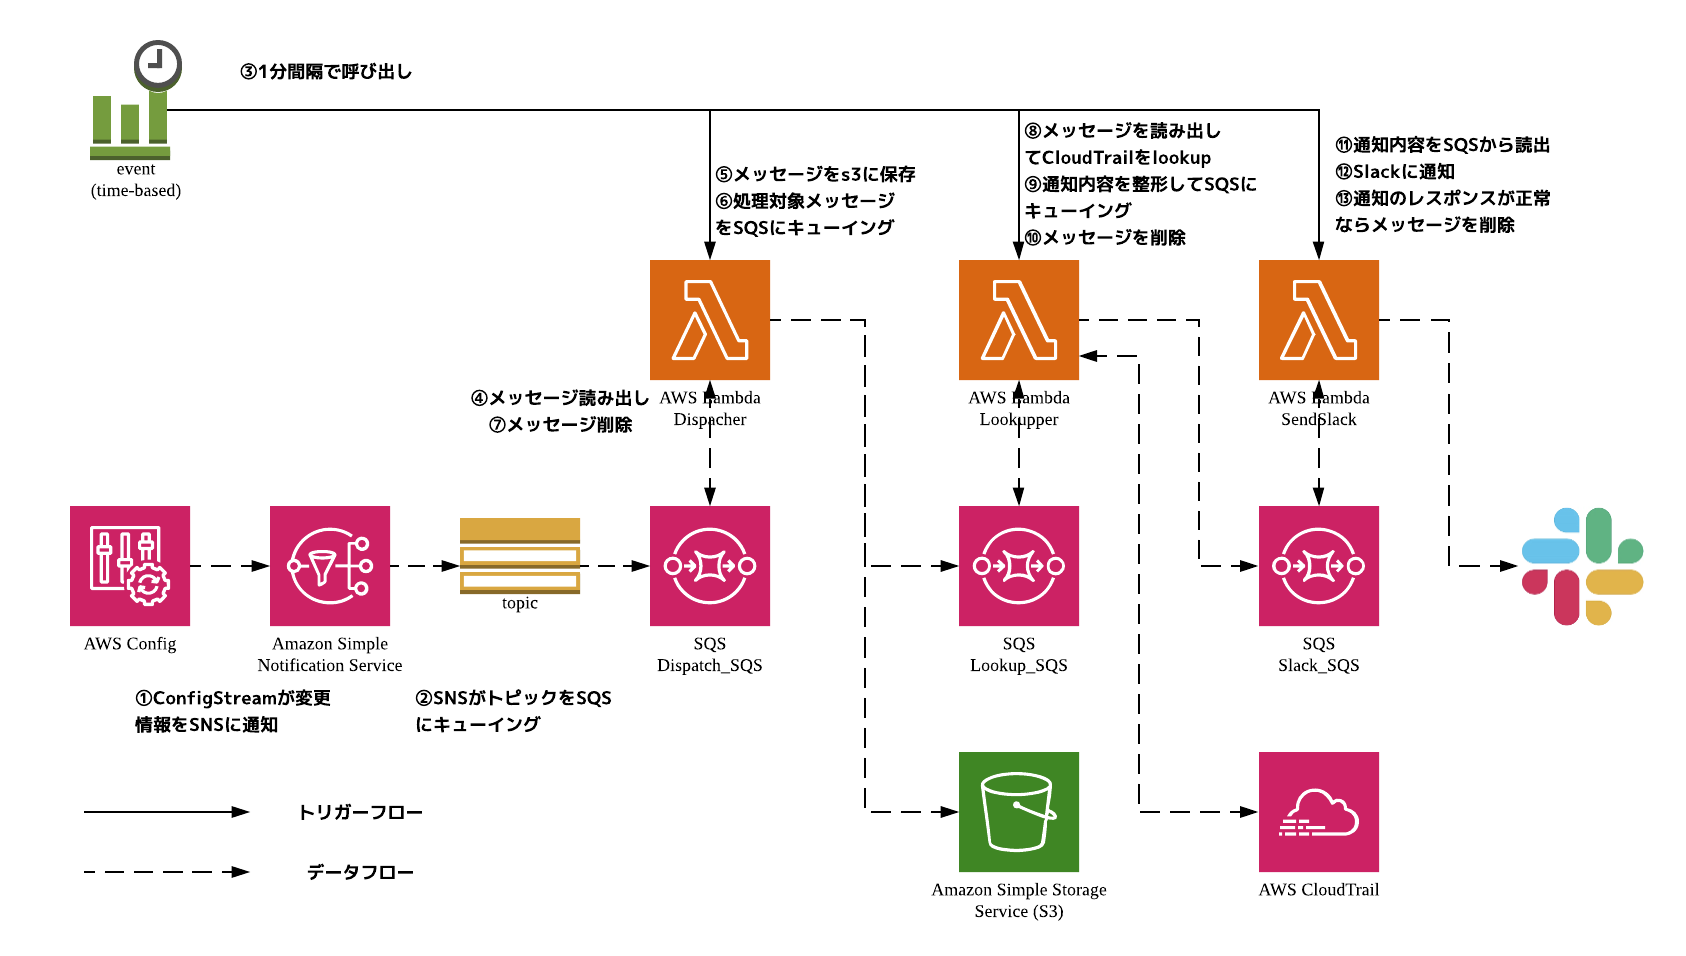
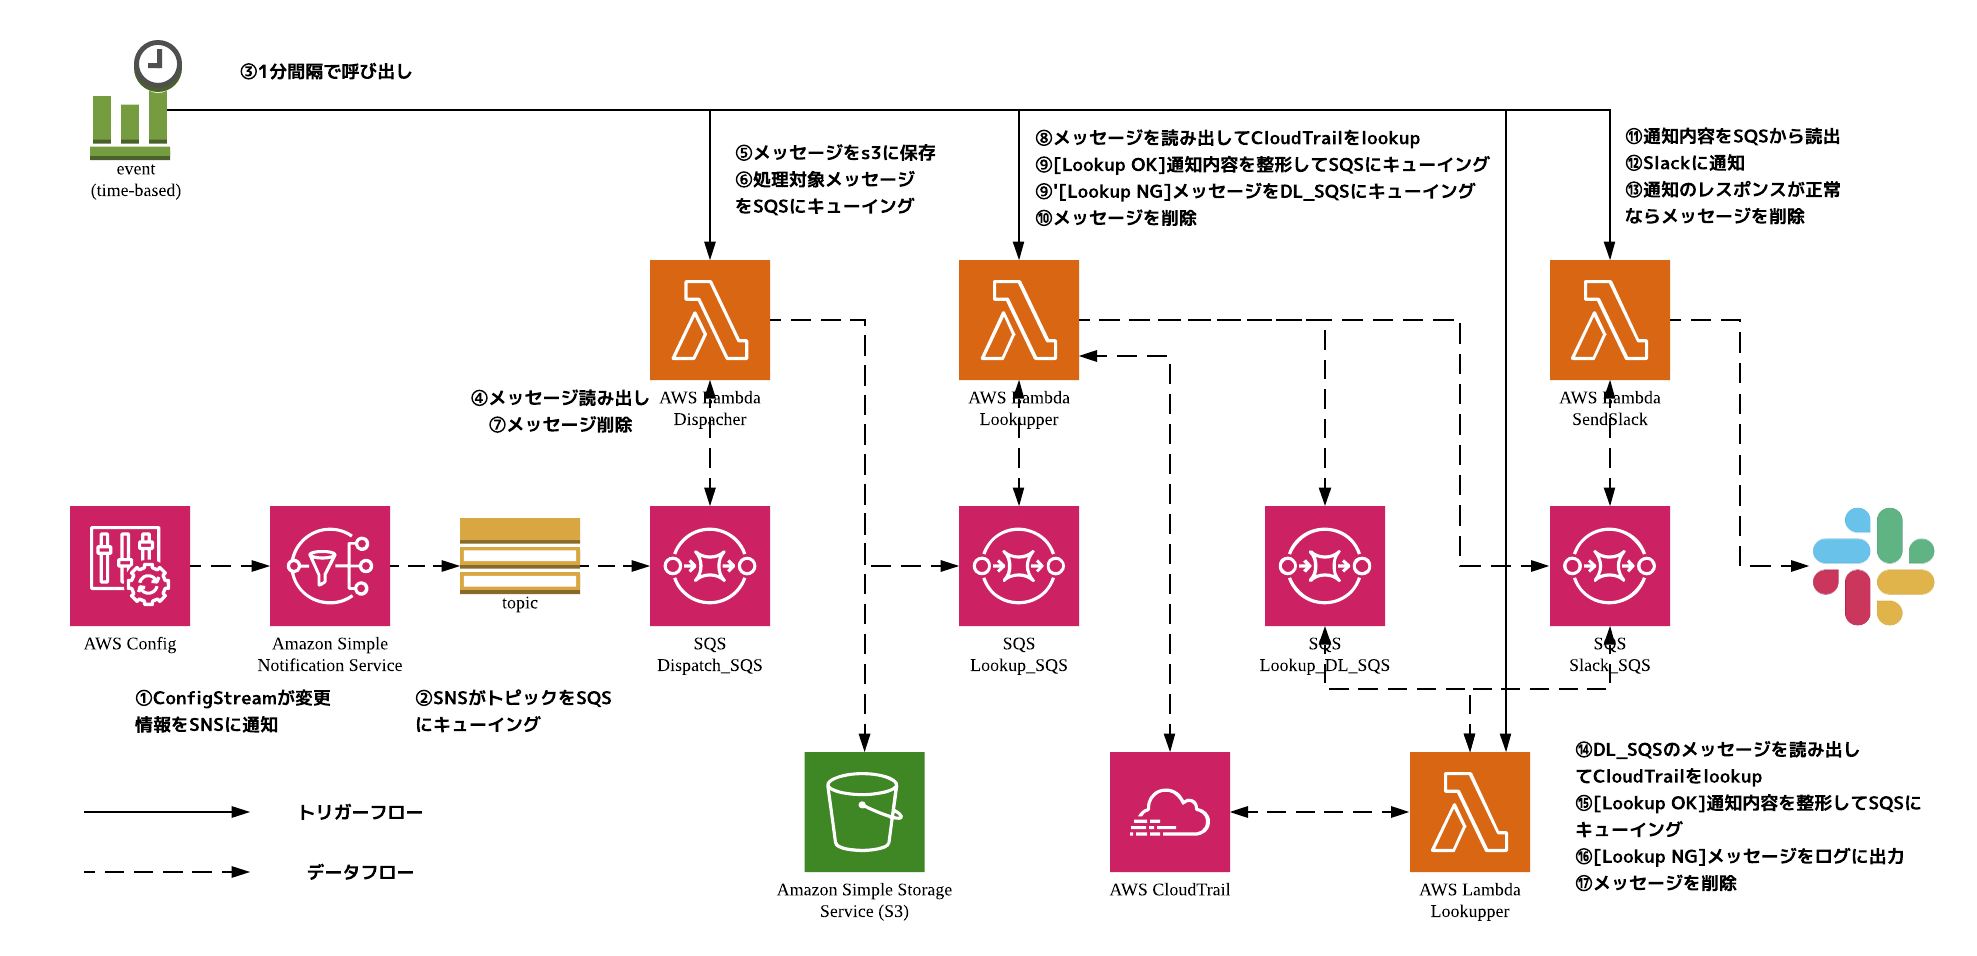
fix issue #1

diff --git a/README.md b/README.md
@@ -40,16 +40,23 @@ EventID
 ![configuration-diagram.png](/docs/pixs/configuration-diagram.png)
 ## 処理の概要
 1. Config Streamが変更情報をSNSに通知
-1. SNSがトピックをSQS(Dispache_SQS)にキューイング
-1. Cloudwatch Events(Time-Based)が一分間隔でLambda(Dispacher, Lookupper, SendSlack)を呼び出し
-1. Lambda(Dispacher)が、SQS(Dispache_SQS)からメッセージを読み出し
-1. Lambda(Dispacher)が、読みだしたメッセージをs3に保存
-1. Lambda(Dispacher)が、処理対象の情報が含まれているメッセージを、SQS(Lookup_SQS)にキューイング
-1. Lambda(Dispacher)が、読み込んだメッセージを削除
-1. Lambda(Lookupper)が、SQS(Lookup_SQS)からメッセージを読み出して、タイムスタンプとリソースタイプをキーにCloudTrailをLookupする。Lookupの結果が空の場合、SQS(Lookup_SQS)にメッセージを書き戻す
-1. Lambda(Lookupper)が、処理対象の情報を選別し、通知に用いる情報を抽出/整形して、SQS(SendSlack_SQS)にキューイング
-1. Lambda(Lookupper)が、読み込んだメッセージを削除
-1. Lambda(SendSlack)が、SQS(SendSlack_SQS)からメッセージを読み出し
-1. Lambda(SendSlack)が、SlackのIncomming Webhookに投稿
-1. Slackのレスポンスが正常なら、Lambda(SendSlack)が、読み込んだメッセージを削除
+2. SNSがトピックをSQS(Dispache_SQS)にキューイング
+3. Cloudwatch Events(Time-Based)が一分間隔でLambda(Dispacher, Lookupper, SendSlack)を呼び出し
+4. Lambda(Dispacher)が、SQS(Dispache_SQS)からメッセージを読み出し
+5. Lambda(Dispacher)が、読みだしたメッセージをs3に保存
+6. Lambda(Dispacher)が、処理対象の情報が含まれているメッセージを、SQS(Lookup_SQS)にキューイング
+7. Lambda(Dispacher)が、読み込んだメッセージを削除
+8. Lambda(Lookupper)が、SQS(Lookup_SQS)からメッセージを読み出して、タイムスタンプとリソースタイプをキーにCloudTrailをLookupする
+9. Lookupの結果が取得できた場合、Lambda(Lookupper)が、処理対象の情報を選別し、通知に用いる情報を抽出/整形して、SQS(SendSlack_SQS)にキューイング
+9'. Lookupの結果が空の場合、Lambda(Lookupper)が、SQS(Lookup_SQS_DL)にメッセージをキューイング
+10. Lambda(Lookupper)が、読み込んだメッセージを削除
+11. Lambda(SendSlack)が、SQS(SendSlack_SQS)からメッセージを読み出し
+12. Lambda(SendSlack)が、SlackのIncomming Webhookに投稿
+13. Slackのレスポンスが正常なら、Lambda(SendSlack)が、読み込んだメッセージを削除
+
+### Lookup_SQS_DLの処理
+14. Lambda(Lookupper)が、SQS(Lookup_SQS_DL)からメッセージを読み出して、タイムスタンプとリソースタイプをキーにCloudTrailをLookupする。
+15. Lookupの結果が取得できた場合、Lambda(Lookupper)が、処理対象の情報を選別し、通知に用いる情報を抽出/整形して、SQS(SendSlack_SQS)にキューイング
+15'. Lookupの結果が空の場合、Lambda(Lookupper)が、ログに警告を書き出してメッセージを削除する
+16. Lambda(Lookupper)が、読み込んだメッセージを削除
 

diff --git a/docs/infra.md b/docs/infra.md
@@ -63,7 +63,35 @@ Queue Type
 
 Delivery Delay
 
-- 5min
+- 15min
+
+Content-Based Deduplication
+
+- Enable
+
+### Dead Letter Queue Settings
+[*] Use Redrive Policy
+
+Dead Letter Queue
+
+- Lookup_SQS_DL.fifo
+
+Maximum Receives
+
+- 1000
+
+## Lookup_SQS_DL.fifo
+Queue Name
+
+- Lookup_SQS_DL.fifo
+
+Queue Type
+
+- FIFO
+
+Delivery Delay
+
+- 15min
 
 Content-Based Deduplication
 
@@ -160,7 +188,36 @@ Code
 |Trust_arn|(記入例) arn:aws:sts::AWS_ACCOUNT_ID:assumed-role/AWSServiceRoleForAWSCloud9/aws-cloud9,arn:aws:sts::AWS_ACCOUNT_ID:assumed-role/AWSServiceRoleForAWSCloud8/aws-cloud8|
 |slack_Queue_Name|Slack_SQS|
 |exclude_resouce_type|AWS::SSM::ManagedInstanceInventory|
-|dispatch_Queue_Name|Lookup_SQS.fifo|
+|Lookup_Queue_Name|Lookup_SQS.fifo|
+|Lookup_Queue_DL_Name|Lookup_SQS_DL.fifo|
+
+### Role Attached Policy
+- [Limited-CloudTrail-lookupevents.json](/code/iam/Limited-CloudTrail-lookupevents.json)
+- [Limited-sqs-ConfigStreamLookupper.json](/code/iam/Limited-sqs-ConfigStreamLookupper.json)
+- AWSLambdaBasicExecutionRoleは、Lambda作成時に作成されているものを利用する
+
+### Basic settings
+Timeout
+
+- 5min
+
+## ConfigStreamLookupperDL
+Runtime
+
+- python3.6
+
+Code
+
+- [ConfigStreamLookupperDL.lambda_function](/code/lambda/ConfigStreamLookupperDL.lambda_function)
+
+### Environment variables
+- SQSを変更している場合は、適宜置き換えてること
+
+|key|value|
+|:---|:---|
+|slack_Queue_Name|Slack_SQS|
+|Lookup_Queue_Name|Lookup_SQS.fifo|
+|Lookup_Queue_DL_Name|Lookup_SQS_DL.fifo|
 
 ### Role Attached Policy
 - [Limited-CloudTrail-lookupevents.json](/code/iam/Limited-CloudTrail-lookupevents.json)
